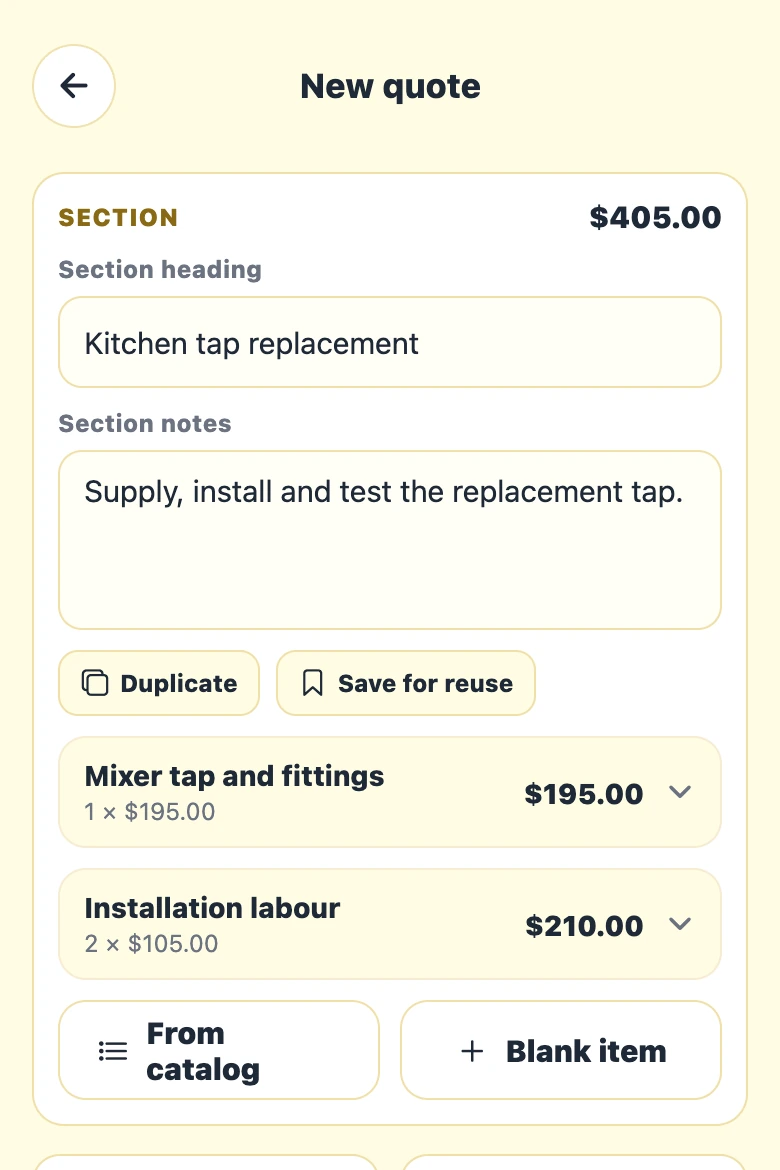
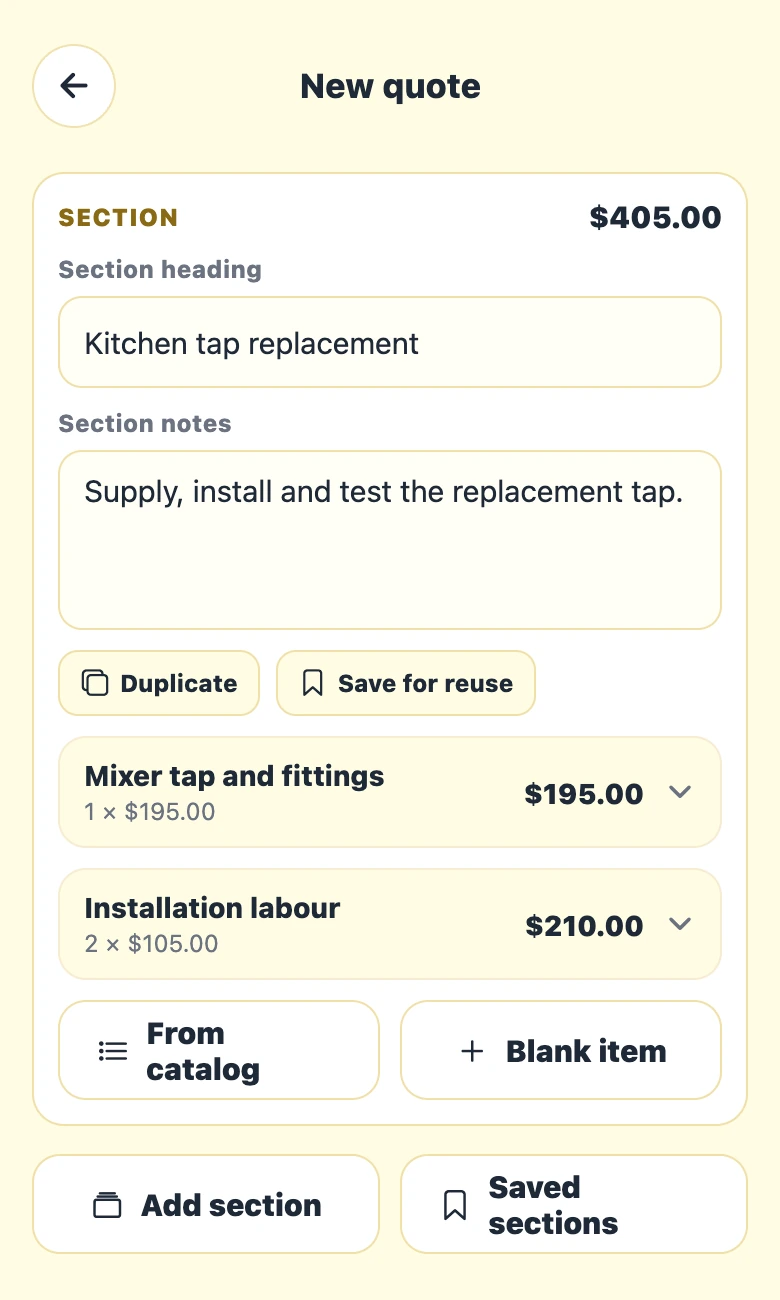
Show the complete mobile quote controls

diff --git a/app/data/project-galleries.ts b/app/data/project-galleries.ts
@@ -291,7 +291,7 @@ export const projectGalleries = {
         "Use role-based access for customer, scheduling and quoting tools.",
       ],
       width: 780,
-      height: 1170,
+      height: 1300,
       imageNote: "Mobile interface preview with sample data.",
     },
   ],
